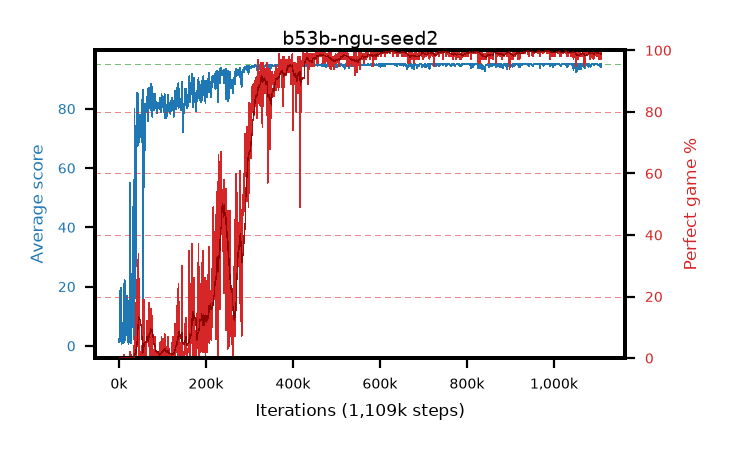
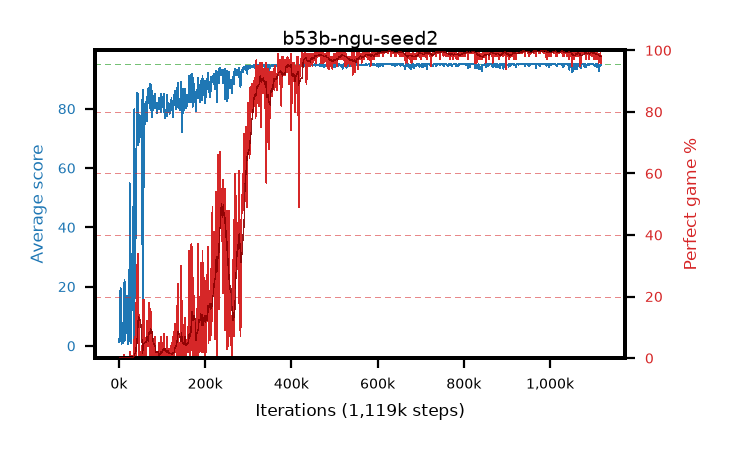
live pictures of 4 arm(s)

diff --git a/results/b53b-ngu-seed2/b53b-ngu-seed2.md b/results/b53b-ngu-seed2/b53b-ngu-seed2.md
@@ -1,6 +1,6 @@
 # b53b-ngu-seed2
 
-step **1,109,000** · 1109 evals · trailing **94.87** · peak **94.96** @1,028,000 · sef **71.9** · best30 **99.8** @983,000
+step **1,119,000** · 1119 evals · trailing **94.74** · peak **94.96** @1,028,000 · sef **72.1** · best30 **99.8** @983,000
 
 ## Config
 
@@ -80,15 +80,15 @@ step **1,109,000** · 1109 evals · trailing **94.87** · peak **94.96** @1,028,
 | 2000 | 6.04 | 3.73 | 0.0 | 19.0 | 3.28 | 0.0 | 0.4 |
 | 3000 | 18.06 | 8.5 | 1.0 | 40.0 | 15.298 | 0.0 | 0.4 |
 | ... | ... | ... | ... | ... | ... | ... | ... |
-| 1098000 | 94.98 | 94.85 | 94.0 | 95.0 | 191.59 | 98.0 | 0.4 |
-| 1099000 | 94.97 | 94.85 | 92.0 | 95.0 | 192.689 | 99.0 | 0.4 |
-| 1100000 | 95.0 | 94.88 | 95.0 | 95.0 | 193.696 | 100.0 | 0.4 |
-| 1101000 | 94.87 | 94.88 | 82.0 | 95.0 | 192.555 | 99.0 | 0.4 |
-| 1102000 | 94.95 | 94.92 | 90.0 | 95.0 | 192.621 | 99.0 | 0.4 |
-| 1103000 | 94.92 | 94.91 | 92.0 | 95.0 | 190.572 | 97.0 | 0.4 |
-| 1104000 | 94.57 | 94.9 | 52.0 | 95.0 | 192.243 | 99.0 | 0.4 |
-| 1105000 | 95.0 | 94.9 | 95.0 | 95.0 | 193.697 | 100.0 | 0.4 |
-| 1106000 | 94.97 | 94.9 | 92.0 | 95.0 | 192.664 | 99.0 | 0.4 |
-| 1107000 | 94.24 | 94.88 | 28.0 | 95.0 | 189.903 | 97.0 | 0.4 |
 | 1108000 | 95.0 | 94.88 | 95.0 | 95.0 | 193.701 | 100.0 | 0.4 |
 | 1109000 | 94.12 | 94.87 | 12.0 | 95.0 | 189.744 | 97.0 | 0.4 |
+| 1110000 | 94.97 | 94.87 | 92.0 | 95.0 | 192.615 | 99.0 | 0.4 |
+| 1111000 | 94.99 | 94.87 | 94.0 | 95.0 | 192.651 | 99.0 | 0.4 |
+| 1112000 | 94.29 | 94.85 | 27.0 | 95.0 | 190.957 | 98.0 | 0.4 |
+| 1113000 | 92.72 | 94.78 | 12.0 | 95.0 | 187.252 | 96.0 | 0.4 |
+| 1114000 | 94.28 | 94.78 | 26.0 | 95.0 | 190.948 | 98.0 | 0.4 |
+| 1115000 | 94.95 | 94.78 | 92.0 | 95.0 | 191.598 | 98.0 | 0.4 |
+| 1116000 | 94.78 | 94.78 | 73.0 | 95.0 | 192.481 | 99.0 | 0.4 |
+| 1117000 | 94.51 | 94.76 | 46.0 | 95.0 | 192.169 | 99.0 | 0.4 |
+| 1118000 | 94.63 | 94.75 | 74.0 | 95.0 | 189.216 | 96.0 | 0.4 |
+| 1119000 | 94.92 | 94.74 | 91.0 | 95.0 | 190.507 | 97.0 | 0.4 |
